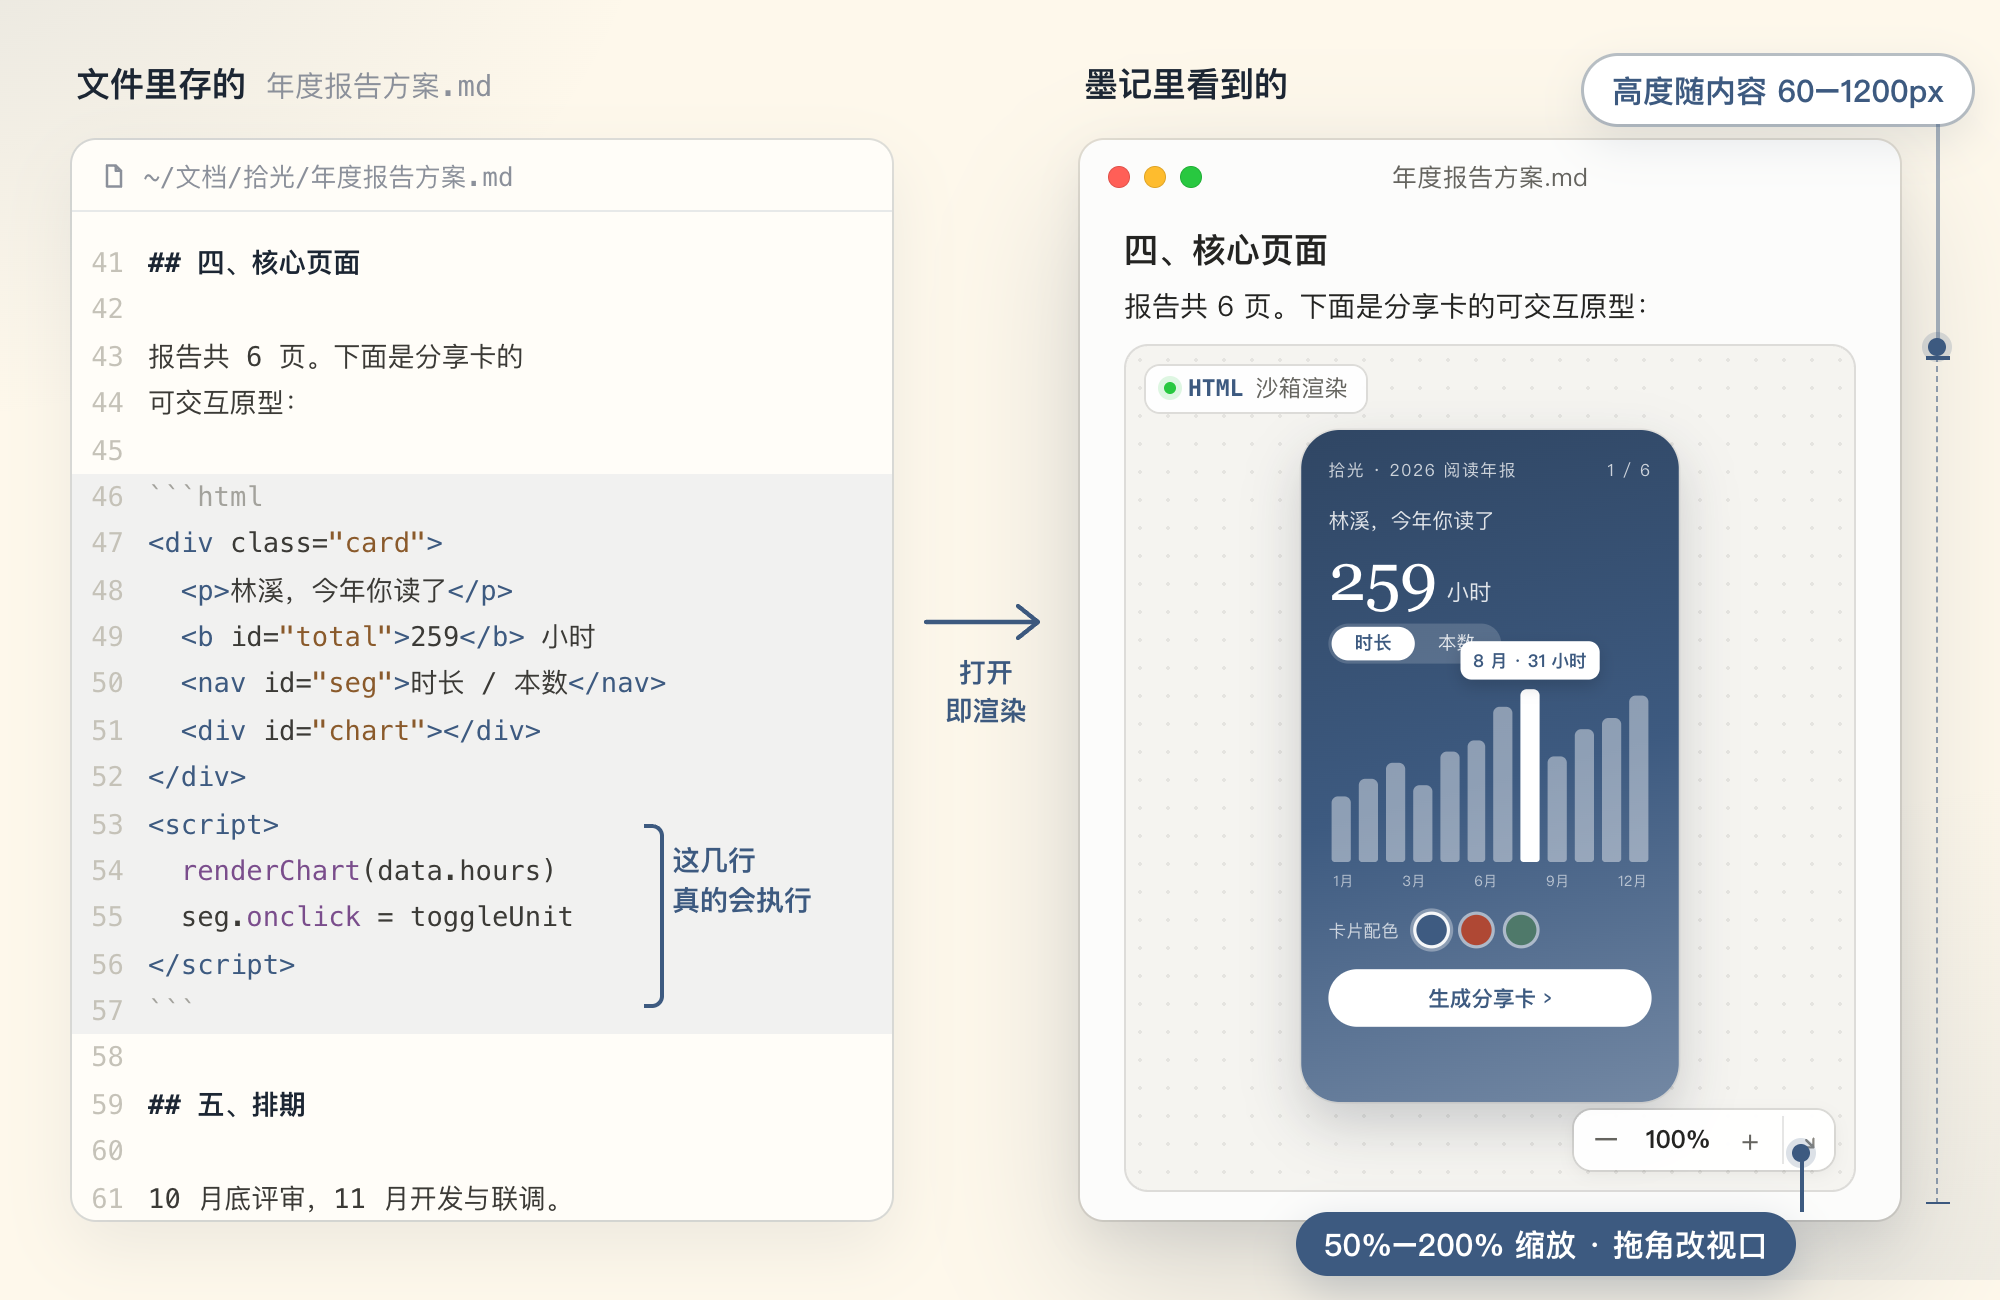
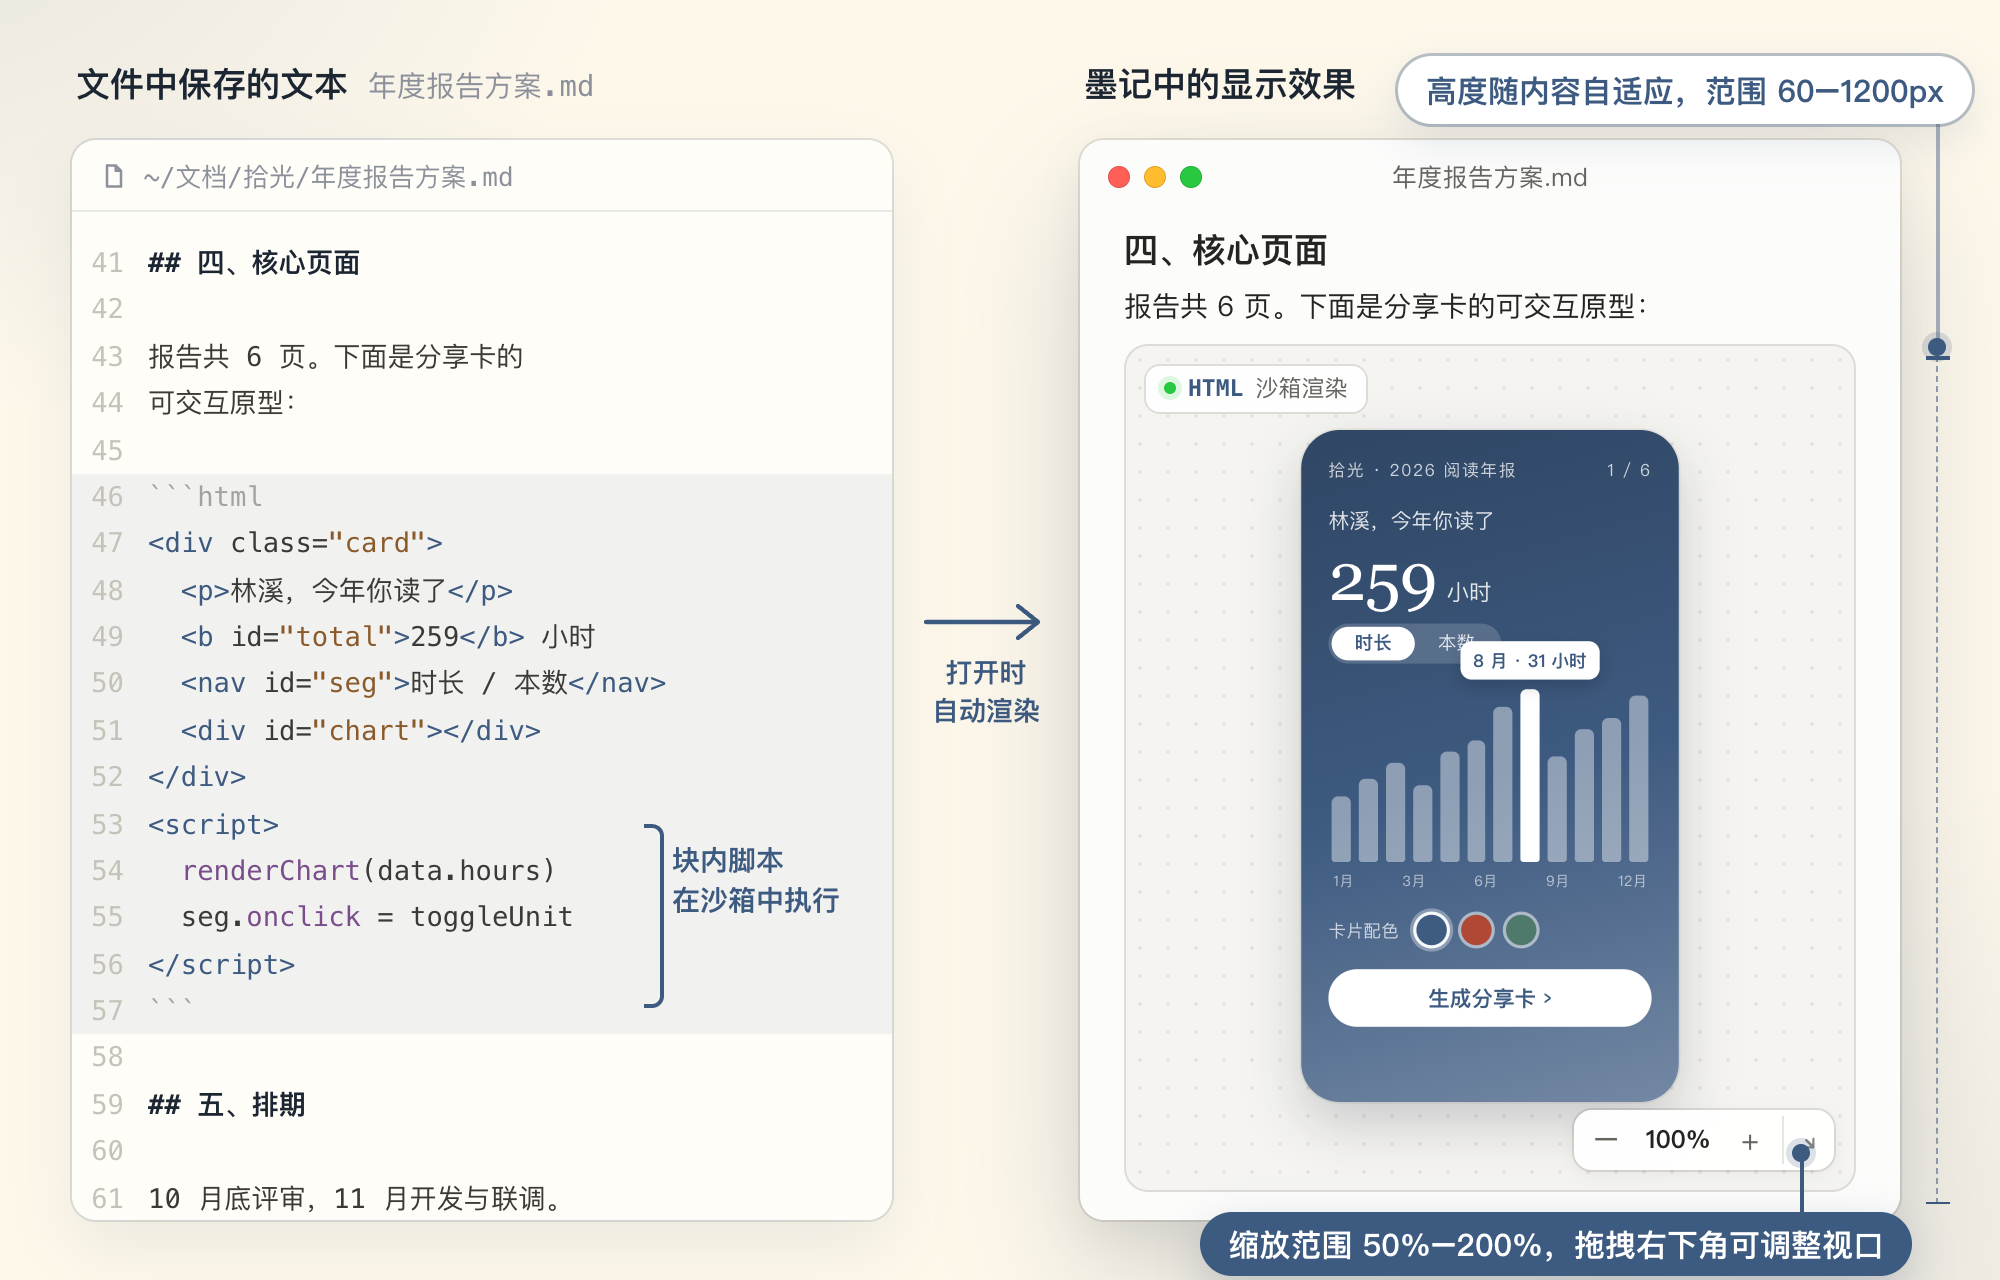
docs(readme): 图内标注统一为书面语，并按真实界面文案校正
正文改严谨后，五组信息图里的标注仍是口语（「这几行真的会执行」「一轮
攒齐，一键复制」「这个文件里一个字都不写」等），一并改掉。

对照 zh-CN.json 时发现两处与真实界面不符，按实际文案校正：
- 状态提示「未变化」实为「内容未变化」，README 正文同步改正
- 已复制标记实为「第 1 轮 · 已复制」，正文措辞随之调整

diff --git a/README.md b/README.md
@@ -59,11 +59,11 @@
 
 ### 复制与核对
 
-![左侧为复制得到的结构化文本，按章节路径与行号、原文引用、所在段落、修改要求分段；右侧为 AI 修改后的标注面板，前两条显示「内容已变化」，第三条显示「未变化」](docs/readme/handoff.png)
+![左侧为复制得到的结构化文本，按章节路径与行号、原文引用、所在段落、修改要求分段；右侧为 AI 修改后的标注面板，前两条显示「内容已变化」，第三条显示「内容未变化」](docs/readme/handoff.png)
 
 一轮标注完成后，点击「复制所有标注」，得到一段结构化文本。每条标注包含章节路径、行号、原文引用、所在段落与修改要求。将这段文本粘贴给 AI Agent，即可逐条定位到对应位置进行修改。
 
-已复制的条目标记为「已复制」。AI 修改文档后，墨记自动与原文比对，逐条提示「内容已变化」或「未变化」，据此可以确认哪些意见尚未处理。核对完成的标注可归档至历史记录。
+复制过的条目会标记为「已复制」。AI 修改文档后，墨记自动与原文比对，逐条提示「内容已变化」或「内容未变化」，据此可以确认哪些意见尚未处理。核对完成的标注可归档至历史记录。
 
 标注数据保存在应用数据目录中，不向 `.md` 文件写入任何内容。交付的文档保持原样。
 

diff --git a/README.en.md b/README.en.md
@@ -59,7 +59,7 @@ Requests that recur often, such as "unclear, rephrase" or "cut this", can be sav
 
 ### Copying and verifying
 
-![Left: the copied text, structured into section path and line number, quoted original, surrounding paragraph, and requested change. Right: the annotation panel after the AI's edit, with the first two entries marked "content changed" and the third "unchanged"](docs/readme/handoff-en.png)
+![Left: the copied text, structured into section path and line number, quoted original, surrounding paragraph, and requested change. Right: the annotation panel after the AI's edit, with the first two entries marked "content changed" and the third "content unchanged"](docs/readme/handoff-en.png)
 
 When a round of review is complete, click Copy all annotations (复制所有标注) to produce structured text. Each entry contains the section path, line number, quoted original, surrounding paragraph and requested change. Pasted into an AI agent, this text lets each change be located precisely.
 
